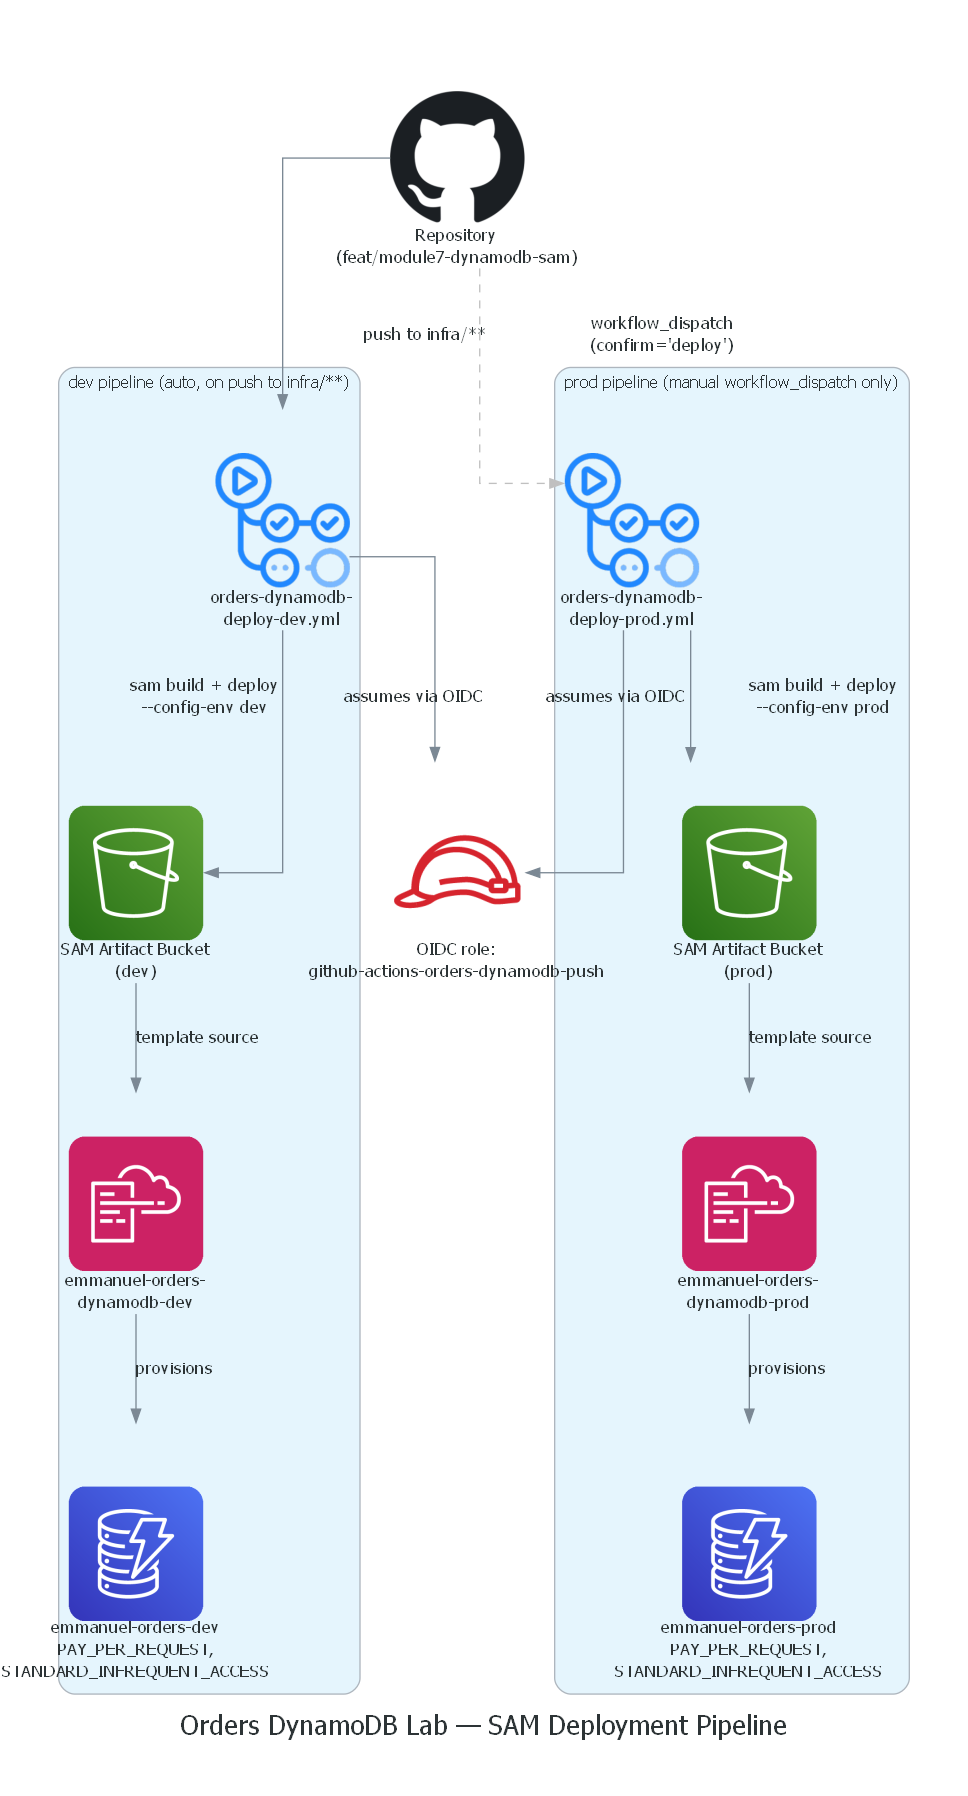
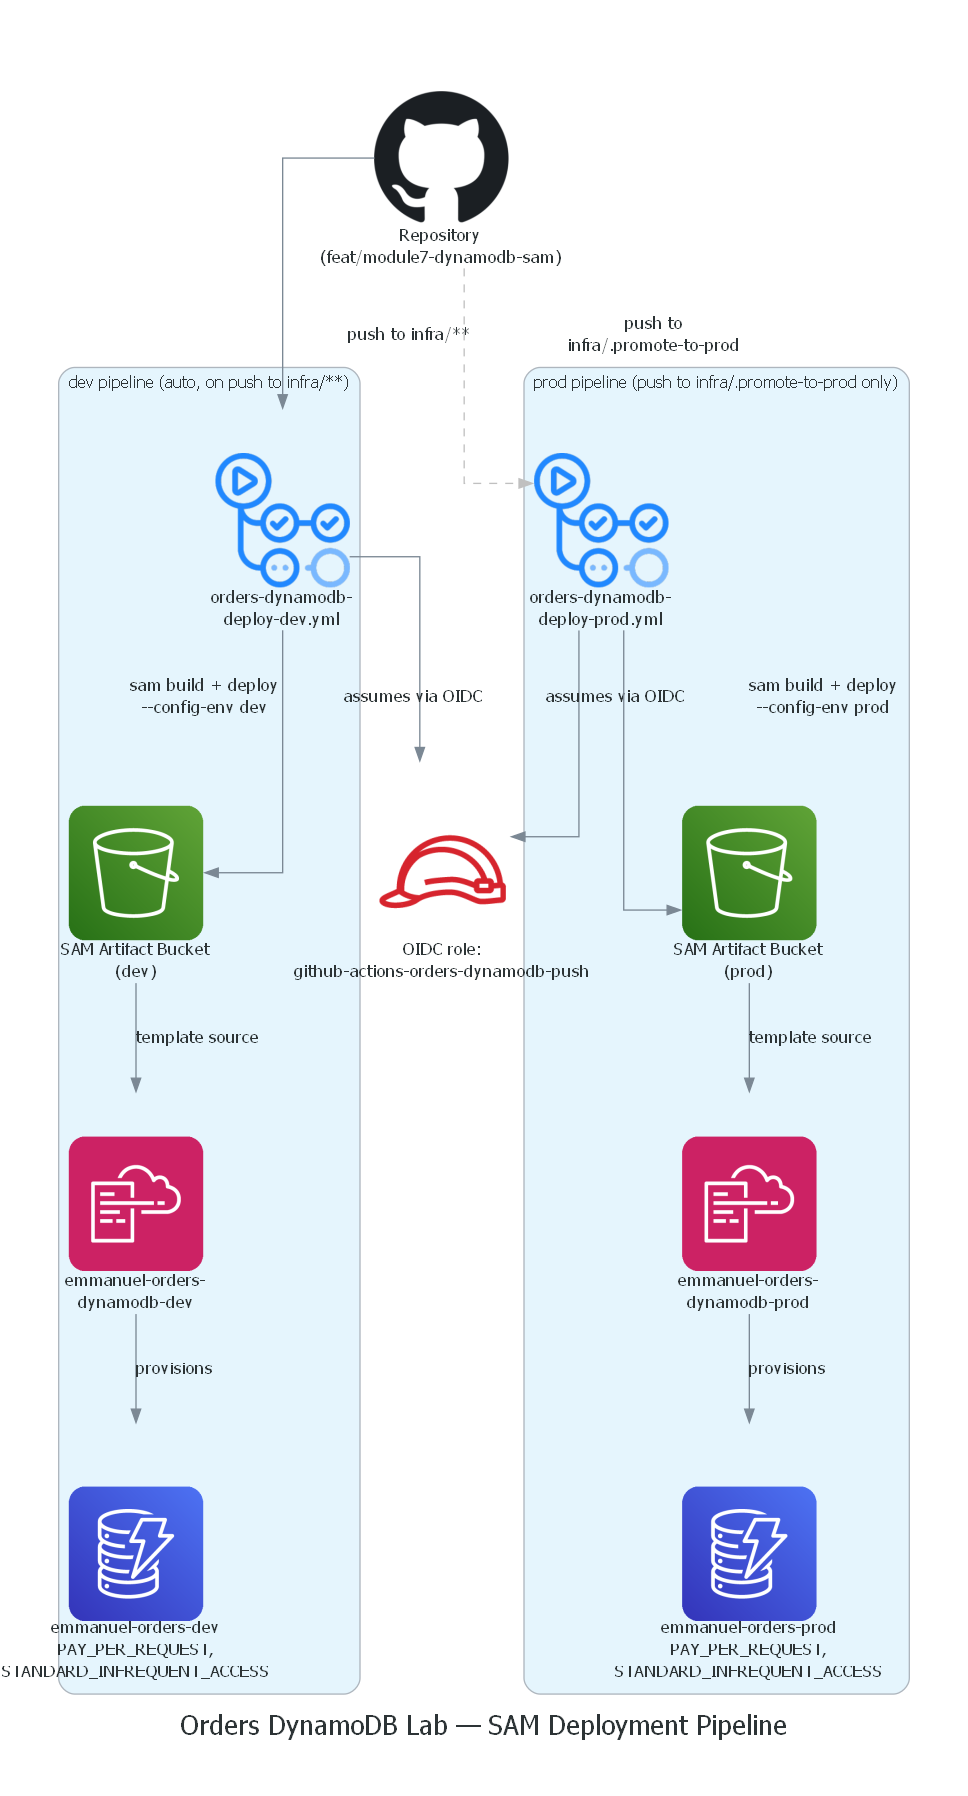
fix: replace undispatchable workflow_dispatch prod trigger with marker-file push
GitHub only exposes workflow_dispatch for a workflow that also exists
on the repo's default branch. This lab's branch is intentionally never
merged to main, so the prod workflow's workflow_dispatch trigger could
never actually be dispatched from GitHub's UI — leaving the prod
pipeline permanently unexercisable and unprovable to a reviewer.

Replaces it with a push trigger scoped to a single path:
infra/.promote-to-prod, a dedicated marker file. Promoting to prod is
still a deliberate, explicit action (editing and pushing that one
file), but now uses a trigger type GitHub actually fires regardless of
default-branch status — the same mechanism already proven working for
the dev pipeline.

Updates the architecture diagram and README to describe the new
trigger instead of the old workflow_dispatch gate.

Changed region(s): [[0.3719, 0.1559, 0.7748, 0.9666], [0.3409, 0.0312, 0.5888, 0.1871], [0.4339, 0.4053, 0.4649, 0.4365]]

diff --git a/labs/aws-cloud-and-ai-upskilling/module7/orders-dynamodb/infra/diagram/generate_diagram.py b/labs/aws-cloud-and-ai-upskilling/module7/orders-dynamodb/infra/diagram/generate_diagram.py
@@ -43,7 +43,7 @@ with Diagram(
         s3_dev >> Edge(label="template source") >> cfn_dev
         cfn_dev >> Edge(label="provisions") >> table_dev
 
-    with Cluster("prod pipeline (manual workflow_dispatch only)"):
+    with Cluster("prod pipeline (push to infra/.promote-to-prod only)"):
         actions_prod = GithubActions("orders-dynamodb-\ndeploy-prod.yml")
         s3_prod = S3("SAM Artifact Bucket\n(prod)")
         cfn_prod = Cloudformation("emmanuel-orders-\ndynamodb-prod")
@@ -56,6 +56,6 @@ with Diagram(
         cfn_prod >> Edge(label="provisions") >> table_prod
 
     repo >> Edge(label="push to infra/**") >> actions_dev
-    repo >> Edge(label="workflow_dispatch\n(confirm='deploy')", style="dashed", color="gray") >> actions_prod
+    repo >> Edge(label="push to\ninfra/.promote-to-prod", style="dashed", color="gray") >> actions_prod
     actions_dev >> Edge(label="assumes via OIDC") >> push_role
     actions_prod >> Edge(label="assumes via OIDC") >> push_role

diff --git a/labs/aws-cloud-and-ai-upskilling/module7/orders-dynamodb/README.md b/labs/aws-cloud-and-ai-upskilling/module7/orders-dynamodb/README.md
@@ -65,8 +65,14 @@ already-shared `AWS_REGION` secret).
 - **dev**: `.github/workflows/orders-dynamodb-deploy-dev.yml` — fires
   automatically on every push to `infra/**` on this branch.
 - **prod**: `.github/workflows/orders-dynamodb-deploy-prod.yml` —
-  manual only, via `workflow_dispatch` with a required `confirm: deploy`
-  input, so a production deploy can never happen by accident.
+  fires only on a push that touches `infra/.promote-to-prod`. To
+  promote, edit that file (bump its timestamp comment) and
+  commit/push — routine infra changes never touch prod. (A
+  `workflow_dispatch` gate was considered but doesn't work here: GitHub
+  only exposes manual dispatch for a workflow that also exists on the
+  repo's default branch, and this branch is intentionally never merged
+  to `main` — so dispatch would be permanently unusable. The marker-file
+  push trigger is the deliberate-but-actually-triggerable equivalent.)
 
 ### Manual local deploy (if needed)
 
